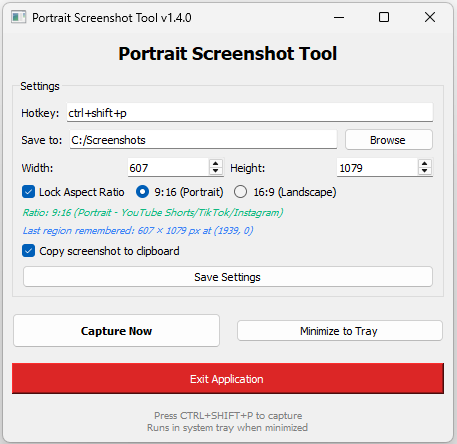
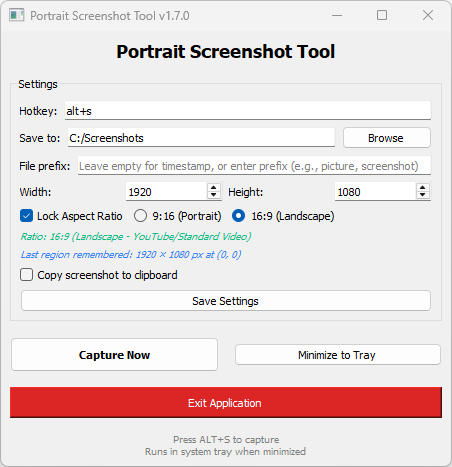
keep timestamp feature in file name if users do not enter anything in the input box

diff --git a/src/main.py b/src/main.py
@@ -518,13 +518,17 @@ class CaptureOverlay(QWidget):
             os.makedirs(save_dir, exist_ok=True)
             
             # Get the file prefix from settings
-            prefix = self.settings.get('file_prefix', 'Portrait')
-            if not prefix:  # Handle empty prefix
-                prefix = 'Portrait'
+            prefix = self.settings.get('file_prefix', '').strip()
             
-            # Get the next sequence number
-            seq_number = self.get_next_sequence_number(save_dir, prefix)
-            filename = f"{prefix}{seq_number}.png"
+            # If prefix is empty, use timestamp (original behavior)
+            if not prefix:
+                timestamp = datetime.now().strftime('%Y-%m-%d_%H-%M-%S')
+                filename = f"Portrait_{timestamp}.png"
+            else:
+                # Use prefix with sequence number
+                seq_number = self.get_next_sequence_number(save_dir, prefix)
+                filename = f"{prefix}{seq_number}.png"
+            
             filepath = os.path.join(save_dir, filename)
             
             if captured.save(filepath, 'PNG'):
@@ -648,7 +652,7 @@ class PortraitScreenshotApp(QMainWindow):
         self.hotkey_thread = None
         self.is_exiting = False
         
-        self.setWindowTitle("Portrait Screenshot Tool v1.6.0")
+        self.setWindowTitle("Portrait Screenshot Tool v1.7.0")
         self.setGeometry(300, 300, 450, 350)
         
         self.init_ui()
@@ -666,7 +670,7 @@ class PortraitScreenshotApp(QMainWindow):
             'portrait_height': 1080,
             'last_capture_rect': None,
             'copy_to_clipboard': True,
-            'file_prefix': 'Portrait'
+            'file_prefix': ''
         }
         
         try:
@@ -723,8 +727,8 @@ class PortraitScreenshotApp(QMainWindow):
         # File prefix input
         prefix_layout = QHBoxLayout()
         prefix_layout.addWidget(QLabel("File prefix:"))
-        self.prefix_input = QLineEdit(self.settings.get('file_prefix', 'Portrait'))
-        self.prefix_input.setPlaceholderText("e.g., picture, screenshot, image")
+        self.prefix_input = QLineEdit(self.settings.get('file_prefix', ''))
+        self.prefix_input.setPlaceholderText("Leave empty for timestamp, or enter prefix (e.g., picture, screenshot)")
         prefix_layout.addWidget(self.prefix_input)
         settings_layout.addLayout(prefix_layout)
         

diff --git a/CHANGELOG.md b/CHANGELOG.md
@@ -1,6 +1,28 @@
 # Changelog
 All notable changes to this project will be documented in this file.
 
+## [1.7.0] - 2026-02-01
+
+1. **File Prefix Setting (Optional)**
+   - Added a new "File prefix" field in the UI
+   - **Default behavior**: Leave empty to use timestamp naming (original feature preserved)
+   - **Custom prefix**: Enter a prefix like "picture", "screenshot", "image" to use sequential numbering
+
+2. **Two Naming Modes**
+
+   **Mode 1: Timestamp (Default - when prefix is empty)**
+   - Filenames: `Portrait_2024-02-01_14-30-45.png`
+   - This is the original behavior - keeps working as before
+   
+   **Mode 2: Sequential Numbering (when you enter a prefix)**
+   - Filenames: `{prefix}1.png`, `{prefix}2.png`, `{prefix}3.png`, etc.
+   - For example, with prefix "picture": `picture1.png`, `picture2.png`, `picture3.png`
+
+3. **Smart Sequence Detection**
+   - When using a custom prefix, the app scans the save folder
+   - Finds the highest number used with your current prefix
+   - Automatically uses the next number in sequence
+   - If you delete old screenshots, the numbering adjusts dynamically
 
 ## [1.6.0] - 2026-02-01
 
